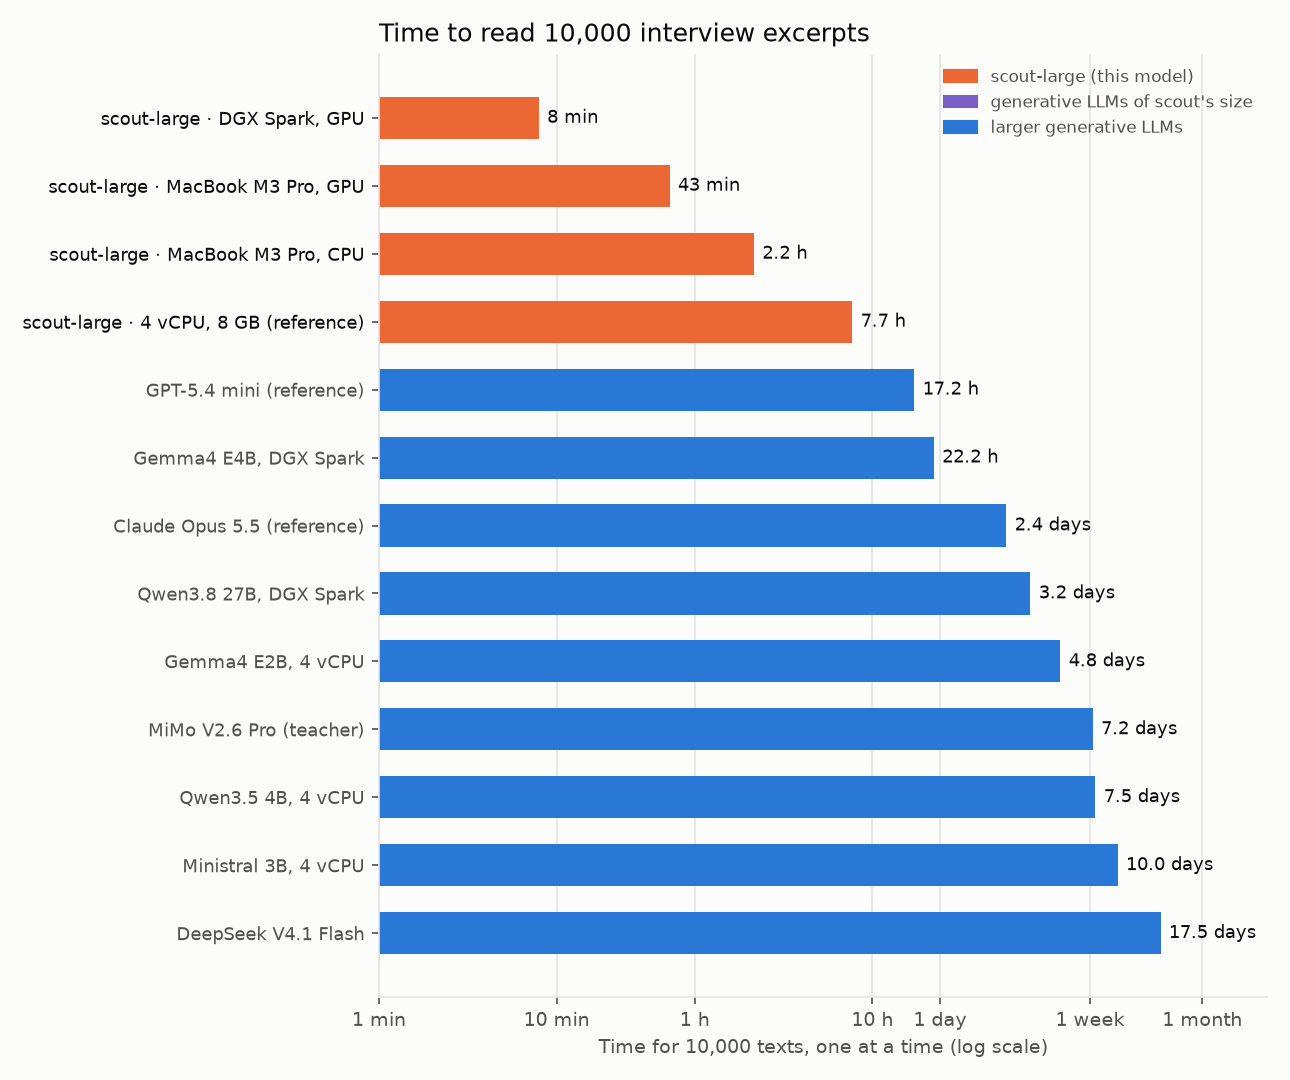
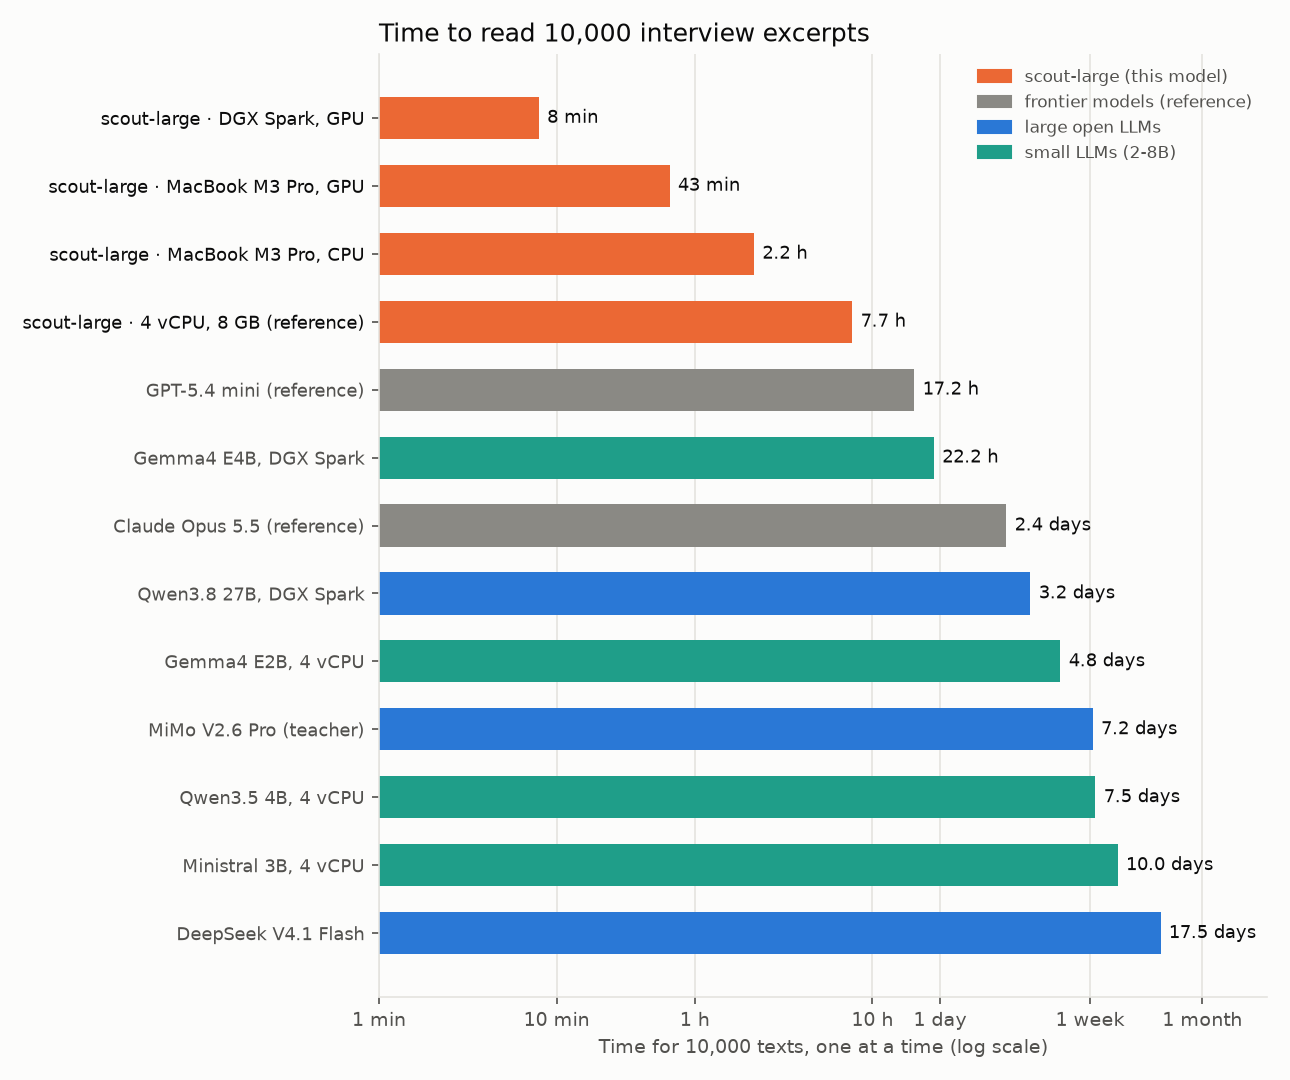
Comparison figures: frontier band, groups by size, legends only for present groups

diff --git a/scripts/span/comparisons.py b/scripts/span/comparisons.py
@@ -212,6 +212,24 @@ FIXED = {
 }
 
 
+# Groups of the comparison, in legend order: (marker, colour, legend text).
+GROUPS = {
+    "frontier": ("o", REF, "frontier models (Claude, GPT): reference, = 1.0"),
+    "large": ("o", OTHER, "large open LLMs (27B and up, hosted or on the DGX), zero-shot"),
+    "small": ("s", "#1f9e89", "small LLMs (2-8B), zero-shot"),
+    "size": ("^", SIZE, "LLMs of scout's size (0.3-1.2B), zero-shot"),
+}
+LARGE = {"mimo", "deepseek", "qwen3_8_27b_dgx"}
+
+
+def group_of(o: dict) -> str:
+    if o["quality"] is None:
+        return "frontier"
+    if o.get("size_class"):
+        return "size"
+    return "large" if o["id"] in LARGE else "small"
+
+
 def place_labels(fig, ax, items: list[tuple[str, float, float, str]], boxes: list,
                  extra_points: list) -> None:
     """Labels with leader lines; each takes the first free position around its point, avoiding
@@ -275,23 +293,25 @@ def figure_quality_speed(data: dict, out: Path) -> None:
                s=80, color=SCOUT, edgecolors=SURFACE, linewidths=1.5, zorder=4,
                label="scout-large (this model)")
     short = {"mac_m3pro_gpu": "MacBook M3 Pro\n(GPU)", "dgx_spark_gpu": "DGX Spark\n(GPU)"}
-    rated = [o for o in data["others"] if o["quality"] is not None and not o.get("size_class")]
-    ax.scatter([o["chunks_per_min"] for o in rated], [o["quality"] for o in rated], s=56,
-               color=OTHER, edgecolors=SURFACE, linewidths=1.5, zorder=3,
-               label="larger generative LLMs (2-27B and hosted), zero-shot")
-    items += [(o["label"], o["chunks_per_min"], o["quality"], TEXT_SECONDARY) for o in rated]
-    same = [o for o in data["others"] if o.get("size_class")]
-    ax.scatter([o["chunks_per_min"] for o in same], [o["quality"] for o in same], s=56,
-               marker="^", color=SIZE, edgecolors=SURFACE, linewidths=1.5, zorder=3,
-               label="generative LLMs of scout's size (0.3-1.2B), zero-shot")
-    items += [(o["label"].removesuffix(", DGX Spark"), o["chunks_per_min"], o["quality"],
-               TEXT_SECONDARY) for o in same]
-    refs = [o for o in data["others"] if o["quality"] is None]
+    groups = {g: [o for o in data["others"] if group_of(o) == g] for g in GROUPS}
+    for g, (marker, color, legend_text) in GROUPS.items():
+        members = groups[g]
+        if not members or g == "frontier":
+            continue
+        ax.scatter([o["chunks_per_min"] for o in members], [o["quality"] for o in members], s=56,
+                   marker=marker, color=color, edgecolors=SURFACE, linewidths=1.5, zorder=3,
+                   label=legend_text)
+        items += [(o["label"].removesuffix(", DGX Spark") if g == "size" else o["label"],
+                   o["chunks_per_min"], o["quality"], TEXT_SECONDARY) for o in members]
+    refs = groups["frontier"]
     ax.scatter([o["chunks_per_min"] for o in refs], [1.0] * len(refs), s=56, facecolors="none",
-               edgecolors=REF, linewidths=1.5, zorder=3, label="reference models (define 1.0)")
+               edgecolors=REF, linewidths=1.5, zorder=3, label=GROUPS["frontier"][2])
     ref_labels = [(o["label"].removesuffix(" (reference)"), o["chunks_per_min"]) for o in refs]
+    ax.axhspan(0.97, 1.03, color=REF, alpha=0.08, zorder=1, linewidth=0)
+    ax.annotate("frontier models (they define the benchmark: 1.0)", (0.21, 1.035),
+                fontsize=8, color=TEXT_SECONDARY, va="bottom", style="italic")
     ax.set_xlim(0.2, 4000)
-    ax.set_ylim(0, 1.12)
+    ax.set_ylim(0, 1.15)
     ax.set_xlabel("Texts per minute, one at a time (log scale)", color=TEXT_SECONDARY, fontsize=9)
     ax.set_ylabel("Quality: agreement with the reference models", color=TEXT_SECONDARY, fontsize=9)
     ax.set_title("scout-large: good quality, hundreds of times faster", loc="left",
@@ -330,10 +350,9 @@ def figure_quality_speed(data: dict, out: Path) -> None:
 
 
 def figure_10k(data: dict, out: Path) -> None:
-    rows = [(f"scout-large · {s['label']}", s["chunks_per_min"], True, False)
+    rows = [(f"scout-large · {s['label']}", s["chunks_per_min"], True, "scout")
             for s in data["scout"]]
-    rows += [(o["label"], o["chunks_per_min"], False, o.get("size_class", False))
-             for o in data["others"]]
+    rows += [(o["label"], o["chunks_per_min"], False, group_of(o)) for o in data["others"]]
     rows.sort(key=lambda r: -r[1])
     fig, ax = plt.subplots(figsize=(8.6, 7.2), dpi=150)
     fig.patch.set_facecolor(SURFACE)
@@ -343,7 +362,7 @@ def figure_10k(data: dict, out: Path) -> None:
     minutes = [10_000 / r[1] for r in rows]
     y = range(len(rows))
     ax.barh(list(y), minutes, height=0.62,
-            color=[SCOUT if r[2] else SIZE if r[3] else OTHER for r in rows])
+            color=[SCOUT if r[2] else GROUPS[r[3]][1] for r in rows])
     ax.set_yticks(list(y), [r[0] for r in rows], fontsize=8.5)
     for tick, row in zip(ax.get_yticklabels(), rows, strict=True):
         tick.set_color(TEXT_PRIMARY if row[2] else TEXT_SECONDARY)
@@ -361,10 +380,12 @@ def figure_10k(data: dict, out: Path) -> None:
                  fontsize=12)
     from matplotlib.patches import Patch
 
-    legend = ax.legend(handles=[Patch(color=SCOUT, label="scout-large (this model)"),
-                                Patch(color=SIZE, label="generative LLMs of scout's size"),
-                                Patch(color=OTHER, label="larger generative LLMs")],
-                       loc="upper right", fontsize=8, frameon=False)
+    present = {r[3] for r in rows}
+    bar_names = {"frontier": "frontier models (reference)", "large": "large open LLMs",
+                 "small": "small LLMs (2-8B)", "size": "LLMs of scout's size (0.3-1.2B)"}
+    handles = [Patch(color=SCOUT, label="scout-large (this model)")]
+    handles += [Patch(color=GROUPS[g][1], label=bar_names[g]) for g in GROUPS if g in present]
+    legend = ax.legend(handles=handles, loc="upper right", fontsize=8, frameon=False)
     for text in legend.get_texts():
         text.set_color(TEXT_SECONDARY)
     fig.tight_layout()
